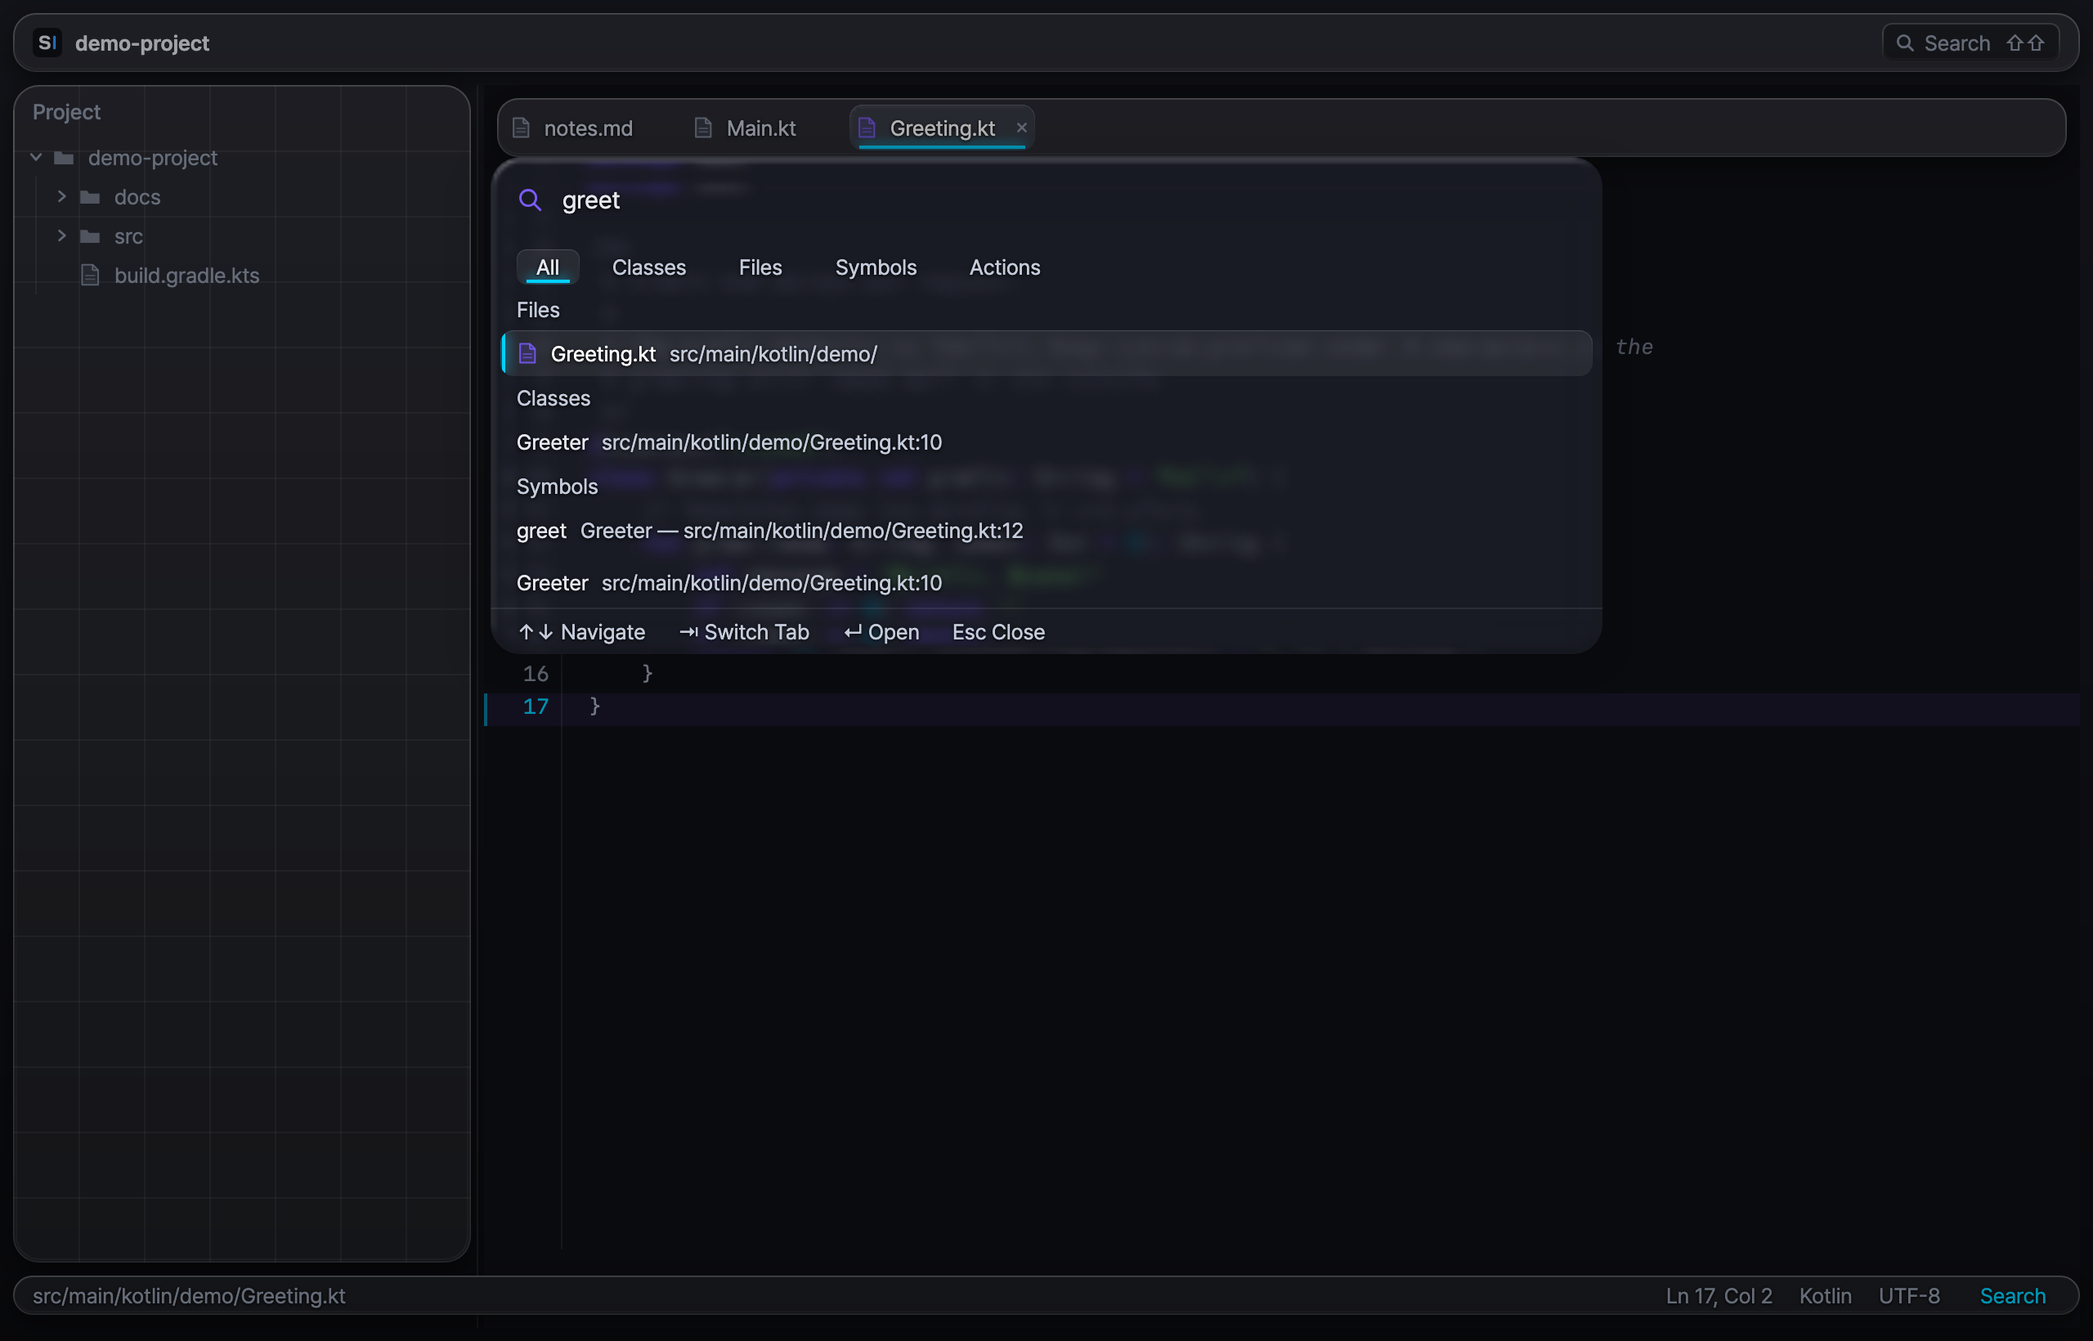
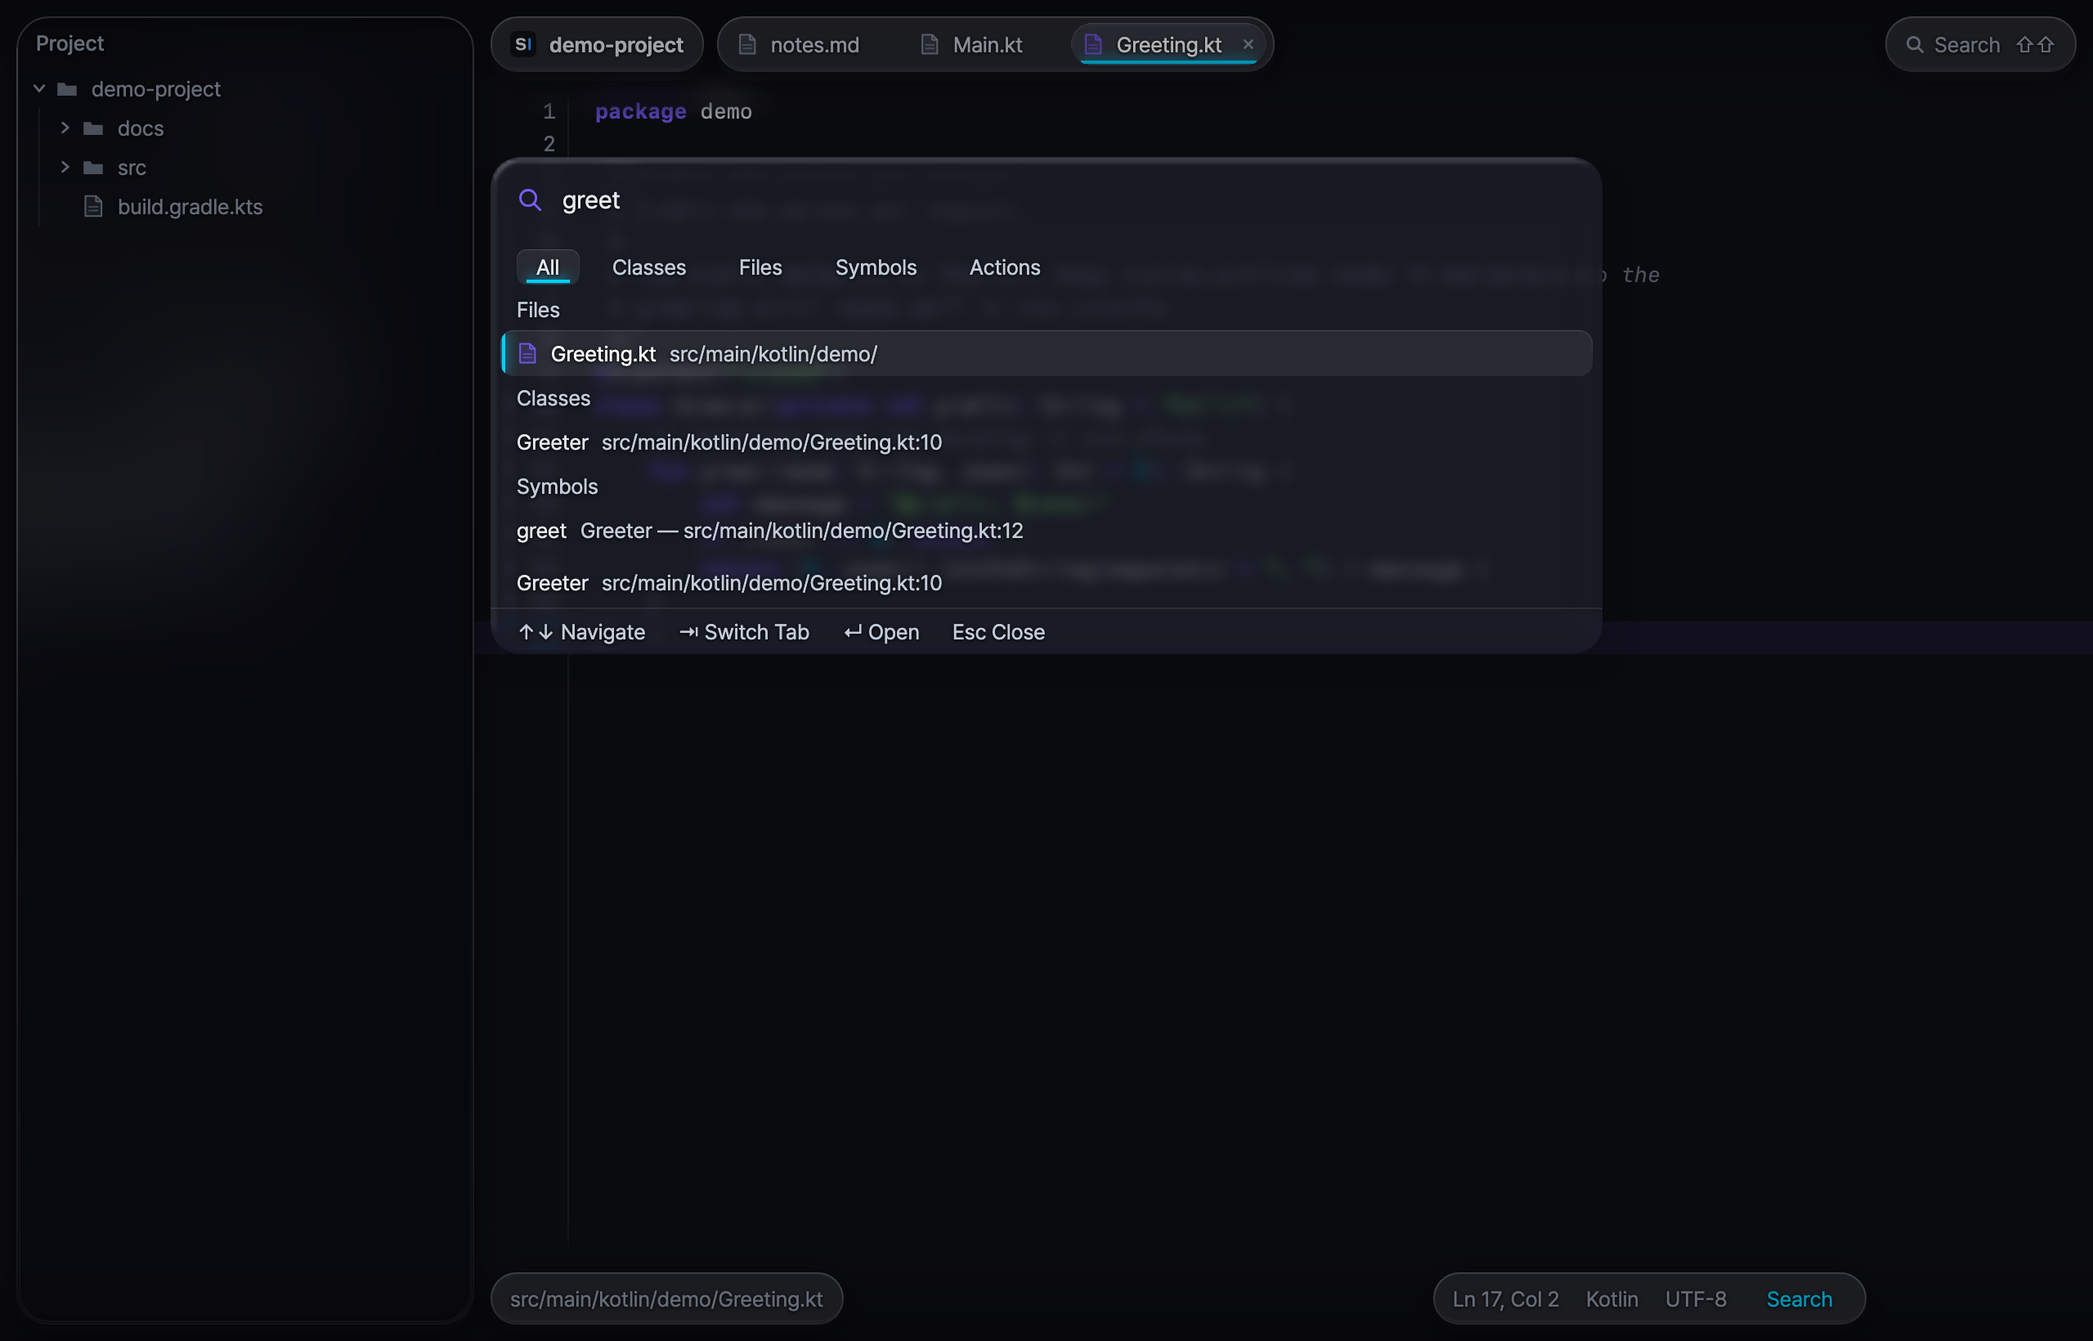
docs: #7 README 와 예시 그림 갱신
- 리퀴드 글래스 UI 절을 현재 크롬으로 다시 씀: 조작 층에만 유리, 창 가장자리까지 채우는 코드, 배경 확장이 있는 떠 있는 사이드바, 바 대신 캡슐, 스크롤 엣지 효과, 얇은 팝업, 웰컴 화면 Open Folder 캡슐, 상수 비용 스크롤 레이어
- 상태 바·탭 줄·제목 줄 슬래브를 설명하던 문장을 상태 캡슐과 상단 캡슐 기준으로 고침
- 예시 그림 6장을 UiSnapshotTest 산출물로 다시 복사

diff --git a/README.md b/README.md
@@ -46,7 +46,7 @@ brew install --cask lcalmsky/stride/stride
 - **편집** 줄 복제·삭제·이동, 줄·블록 주석 토글, 들여쓰기, 실행 취소·다시 실행을 키보드로 합니다. `⌘L` 로 `줄` 이나 `줄:열` 로 이동합니다. 선택 없이 `⌘C`·`⌘X` 를 누르면 줄 전체를 복사·잘라냅니다
 - **편집 도우미** `⌥↑`·`⌥↓` 는 커서에서 단어·문자열·괄호·줄 순으로 선택을 넓히고 좁힙니다. `⌘⇧U` 대소문자, `⌃⇧J` 줄 합치기, `⇧↩`·`⌘⌥↩` 새 줄, `⌃M` 짝 괄호, `⌘⌥[`·`⌘⌥]` 코드 블록, `⌃⇧↑`·`⌃⇧↓` 메서드 이동을 키보드로 합니다. `⌥/` 는 열린 편집기의 단어로, `⌃Space`·`⌃⌥Space` 는 선언 인덱스와 키워드로 자동 완성하고, `⇧F6` 은 파일 안에서 이름을 바꿉니다
 - **탐색** `⌘B` 나 `⌘`-클릭으로 선언으로 가고, `⌘[`·`⌘]` 또는 `⌘⌥←`·`⌘⌥→` 로 뒤로·앞으로 갑니다. `⌘F12` 파일 구조, `⌘⇧T` 테스트로 이동, `⌥F7` 사용처 찾기, `F3`·`⌘F3` 북마크를 씁니다
-- **상태 바** 상대 경로, `Ln`·`Col`, 파일 종류, `UTF-8`, 읽기 전용 표시를 보여 줍니다
+- **상태 캡슐** 하단의 경로 캡슐은 상대 경로를, 상태 캡슐 그룹은 `Ln`·`Col`, 파일 종류, `UTF-8`, 읽기 전용 표시를 보여 줍니다
 
 </td>
 </tr>
@@ -74,10 +74,10 @@ brew install --cask lcalmsky/stride/stride
 
 <table width="100%">
 <tr>
-<td width="44%" valign="top"><img src="docs/images/find.png" alt="에디터 아래 열린 찾기 바" width="480"></td>
+<td width="44%" valign="top"><img src="docs/images/find.png" alt="상단 캡슐 아래 열린 찾기 바" width="480"></td>
 <td valign="top">
 
-- **찾기 바** `⌘F` 로 탭 아래에 엽니다. `Enter`·`⌘G` 는 다음 일치로, `⇧Enter`·`⌘⇧G` 는 이전 일치로 이동하고 끝에서 반대편으로 돌아갑니다
+- **찾기 바** `⌘F` 로 상단 캡슐 줄 아래에 엽니다. `Enter`·`⌘G` 는 다음 일치로, `⇧Enter`·`⌘⇧G` 는 이전 일치로 이동하고 끝에서 반대편으로 돌아갑니다
 - **바꾸기** `⌘R` 로 바꾸기 줄을 펼칩니다. 현재 일치나 전체를 바꿉니다
 - **옵션** `Aa` 는 대소문자를 구분하고 `.*` 는 정규식을 씁니다. 정규식 바꾸기에서는 `$1` 로 그룹을 참조합니다. 잘못된 정규식은 오류를 보여 줍니다
 - **표시** 현재 일치와 나머지 일치를 서로 다른 네온 색으로 칠하고 `n / 전체` 카운터를 보여 줍니다. `Esc` 로 닫고 에디터로 포커스를 돌려줍니다
@@ -126,11 +126,15 @@ brew install --cask lcalmsky/stride/stride
 <td valign="top">
 
 - **배경** 중립 그라파이트 바탕에 위에서 아래로 은은히 어두워지는 휘도 폴오프를 깔아 창 뒤에 둡니다. 색은 강조 요소에만 씁니다
-- **떠 있는 유리 슬래브** 사이드바·탭 줄·찾기 바·상태 바·제목 줄·도구 창은 창 가장자리에서 8 dp 띄운 둥근 유리 판입니다. 판마다 스페큘러 림과 캐시한 중립 그림자가 있고, 판 사이 틈으로 창 바탕이 보입니다
-- **코드가 유리 아래로** 에디터는 탭 줄과 상태 바 아래까지 이어져 스크롤한 코드가 유리를 통해 비칩니다. 팝업은 얇은 유리로 뒤의 코드를 비추고 가장자리 렌즈에서 코드를 휘게 하며, 굵은 텍스트 그림자가 라벨을 읽히게 합니다. 셰이더를 쓸 수 없으면 블러와 헤어라인으로 대체합니다
-- **선택 신호** 선택한 트리 행과 활성 탭은 작은 렌즈가 든 캡슐로 떠오르고, 위쪽 스페큘러 림, 시안 2 dp 막대, 번지는 글로우, 흰 텍스트로 표시합니다. 포커스를 받은 패널은 테두리에 얇은 선을 그립니다
-- **큰 파일** 1,000줄 이상 문서는 상수 비용 스크롤 레이어로 그려 프레임 비용을 묶고, 그때 바는 정적 유리로 바뀝니다. 800줄 아래로 줄어야 레이어를 풉니다
-- **모션과 비용** 선택이 바뀔 때만 150 ms 동안 페이드하고 상시 애니메이션은 없습니다. 슬래브 블러는 크기별로 한 번 계산해 캐시하고, 팝업 렌즈는 저해상도 사본에서 계산합니다
+- **조작 층에만 유리** 유리는 사이드바·상하단 캡슐·찾기 바·팝업·도구 창 전환기처럼 조작에 쓰는 층에만 쓰고, 코드는 창 가장자리까지 채웁니다. 바나 판이 창을 가로지르지 않습니다
+- **떠 있는 유리 사이드바** 위·왼·아래 10 dp 띄운 둥근 유리 판입니다. 바로 옆의 실제 코드를 뒤집어 흐린 색장을 판 아래에 깔아, 사이드바가 옆 코드의 색조를 머금습니다. 판 바깥은 에디터 필드와 같은 픽셀로 남습니다
+- **바 대신 캡슐** 상단은 프로젝트 이름 캡슐·탭 캡슐 그룹·Search 캡슐로, 하단은 파일 경로 캡슐과 상태 캡슐 그룹으로 나뉩니다. 선택한 탭은 그룹 안의 유리 필이 미끄러지듯 옮겨 가고 시안 2 dp 밑줄이 선택을 즉시 알립니다. 상태 캡슐 그룹은 `Ln`·`Col`, 파일 종류, `UTF-8`, 읽기 전용 표시를 담습니다. 캡슐은 뒤의 코드를 흐려 라벨을 읽히게 하고, 캡슐 사이로는 코드가 그대로 보이고 클릭됩니다
+- **스크롤 엣지 효과** 스크롤한 코드는 상단·하단 캡슐 줄 아래에서 서서히 흐려지며 창 가장자리로 사라집니다. 바가 덮어 자르는 대신 흐림이 점진적으로 풀립니다
+- **얇은 팝업** Search Everywhere·최근 파일·컨텍스트 액션 팝업은 코드 위에 얇은 유리로 뜨고, 뒤의 코드를 비추며 가장자리에서 휘게 합니다. 굵은 텍스트 그림자가 라벨을 읽히게 하고, 셰이더를 쓸 수 없으면 블러와 헤어라인으로 대체합니다
+- **웰컴 화면** 프로젝트가 없으면 워드마크가 화면의 콘텐츠가 되고, 그 아래 `Open Folder…` 유리 캡슐과 키캡 힌트가 놓입니다
+- **선택 신호** 선택한 트리 행은 작은 렌즈가 든 캡슐로 떠오르고, 시안 2 dp 막대, 번지는 글로우, 흰 텍스트로 표시합니다. 포커스를 받은 트리 패널은 테두리에 얇은 선을 그립니다
+- **큰 파일** 1,000줄 이상 문서는 상수 비용 스크롤 레이어로 그려 프레임 비용을 묶고, 그때 캡슐은 캐시한 프로스트 채움을 씁니다. 800줄 아래로 줄어야 레이어를 풉니다
+- **모션과 비용** 선택한 탭의 필은 200 ms 동안 미끄러지고 상시 애니메이션은 없습니다. 캡슐 프로스트와 팝업 렌즈는 저해상도 사본에서 계산하고, 배경 확장과 스크롤 엣지 흐림은 결과를 캐시해 정지 프레임에서 다시 계산하지 않습니다
 - **UI 글꼴** 번들된 UI 글꼴을 쓰고, Actions 탭의 `Switch UI Font` 로 시스템 글꼴과 전환합니다. 선택은 저장되어 다음 실행에도 유지됩니다
 
 </td>
@@ -249,7 +253,7 @@ JDK 21 이 필요합니다. Gradle toolchain 이 21 을 요구합니다.
 
 모든 모듈은 `META-INF/stride-plugin.xml` 디스크립터로 확장점을 선언하고 확장을 등록합니다. 앱 디스크립터가 파일 종류, 문법 하이라이터, 주석 처리, 에디터, 트리 구조, Search Everywhere 기여자 확장점을 열고, 언어 플러그인과 앱 자신이 그 확장점에 등록합니다. 클래스·심볼 검색은 선언 인덱스를 읽는 기여자로 등록되고, 액션 검색은 앱이 직접 구성합니다. 자세한 계약은 [core](docs/api-core.md) · [lang](docs/api-lang.md) · [search](docs/api-search.md) · [app](docs/api-app.md) 에 있습니다.
 
-에디터는 스크롤 뷰포트와 크롬 인셋을 따로 둡니다. 내용은 창 가장자리까지 이어지고 바는 그 위에 겹쳐 그려지며, 인셋은 캐럿 스크롤·거터·스크롤바 여백에 반영됩니다. 1,000줄 이상 문서는 내용을 별도 스크롤 레이어에 배치하고 800줄 아래로 내려가면 레이어를 풉니다.
+에디터는 스크롤 뷰포트와 크롬 인셋을 따로 둡니다. 내용은 창 가장자리까지 이어지고 유리 캡슐과 사이드바가 그 위에 떠 있으며, 인셋은 캐럿 스크롤·거터·스크롤바 여백에 반영됩니다. 1,000줄 이상 문서는 내용을 별도 스크롤 레이어에 배치하고 800줄 아래로 내려가면 레이어를 풉니다.
 
 <br>
 

diff --git a/README.en.md b/README.en.md
@@ -46,7 +46,7 @@ The app installs to `/Applications/strIDE.app`. It is Apple Silicon (arm64) only
 - **Editing** duplicate, delete, and move lines, toggle line and block comments, indent, and undo or redo from the keyboard. `⌘L` jumps to a `line` or `line:column`. With no selection, `⌘C`·`⌘X` copy or cut the whole line
 - **Editing helpers** `⌥↑`·`⌥↓` grow and shrink the selection from the caret through word, string contents, brackets, and lines. `⌘⇧U` changes case, `⌃⇧J` joins lines, `⇧↩`·`⌘⌥↩` start a new line, `⌃M` jumps to the matching brace, `⌘⌥[`·`⌘⌥]` move to the code block edges, and `⌃⇧↑`·`⌃⇧↓` move between methods. `⌥/` completes from words in open editors, `⌃Space`·`⌃⌥Space` complete from the declaration index and keywords, and `⇧F6` renames within the file
 - **Navigation** `⌘B` or `⌘`-click goes to a declaration, and `⌘[`·`⌘]` or `⌘⌥←`·`⌘⌥→` move back and forward. `⌘F12` shows the file structure, `⌘⇧T` goes to the test, `⌥F7` finds usages, and `F3`·`⌘F3` handle bookmarks
-- **Status bar** shows the relative path, `Ln`·`Col`, the file type, `UTF-8`, and a read-only badge
+- **Status capsules** the path capsule at the bottom shows the relative path, and the status capsule group shows `Ln`·`Col`, the file type, `UTF-8`, and a read-only badge
 
 </td>
 </tr>
@@ -74,10 +74,10 @@ The app installs to `/Applications/strIDE.app`. It is Apple Silicon (arm64) only
 
 <table width="100%">
 <tr>
-<td width="44%" valign="top"><img src="docs/images/find.png" alt="The find bar open below the editor" width="480"></td>
+<td width="44%" valign="top"><img src="docs/images/find.png" alt="The find bar open below the top capsules" width="480"></td>
 <td valign="top">
 
-- **Find bar** `⌘F` opens it below the tab strip. `Enter`·`⌘G` moves to the next match and `⇧Enter`·`⌘⇧G` to the previous one, wrapping around at either end
+- **Find bar** `⌘F` opens it below the top capsule row. `Enter`·`⌘G` moves to the next match and `⇧Enter`·`⌘⇧G` to the previous one, wrapping around at either end
 - **Replace** `⌘R` expands the replace row. Replace the current match or all matches
 - **Options** `Aa` matches case and `.*` uses a regular expression. In regular-expression replacements, `$1` refers to a group. An invalid expression shows an error
 - **Display** the current match and the other matches are painted in different neon colors, with an `n / total` counter. `Esc` closes the bar and returns focus to the editor
@@ -126,11 +126,15 @@ The app installs to `/Applications/strIDE.app`. It is Apple Silicon (arm64) only
 <td valign="top">
 
 - **Background** a neutral graphite base with a soft top-to-bottom luminance falloff sits behind the window content. Color is reserved for emphasis
-- **Floating glass slabs** the sidebar, tab strip, find bar, status bar, title bar, and tool windows are rounded glass slabs inset 8 dp from the window edge. Each slab has a specular rim and a cached neutral shadow, and the window base shows through the gaps between them
-- **Code under glass** the editor runs under the tab strip and status bar, so scrolled code shows through the glass. Popups are thin glass that shows the code behind and bends it at the rim, and a strong text shadow keeps labels legible; they fall back to blur plus hairlines when the shader is unavailable
-- **Selection signal** a selected tree row and the active tab float as capsules with a small lens, a specular top rim, a 2 dp cyan bar, a bleeding glow, and white text. A focused panel draws a thin line around its border
-- **Large files** documents of 1,000 lines or more scroll through a constant-cost layer, and the bars become static glass; the layer is released once the document shrinks below 800 lines
-- **Motion and cost** a fade runs for 150 ms only when the selection changes; nothing animates continuously. Slab blur is computed once per size and cached, and the popup lens runs on a lower-resolution copy
+- **Glass only on the control layer** glass is used only for the sidebar, the top and bottom capsules, the find bar, popups, and the tool window switcher; the code fills the window edge to edge. No bar or slab crosses the window
+- **Floating glass sidebar** a rounded glass panel inset 10 dp from the top, left, and bottom edges. The real code right next to it is mirrored and blurred into a soft colour field under the panel, so the sidebar carries the tone of the code beside it. Outside the panel the pixels are the editor field
+- **Capsules instead of bars** the top row is split into a project name capsule, a tab capsule group, and a Search capsule; the bottom row into a file path capsule and a status capsule group. The selected tab is a glass pill that slides across the group, and a 2 dp cyan underline marks the selection instantly. The status group carries `Ln`·`Col`, the file type, `UTF-8`, and the read-only badge. Each capsule frosts the code under it so labels stay legible, and the code between capsules stays visible and clickable
+- **Scroll edge effect** scrolled code softens under the top and bottom capsule rows and fades out toward the window edge. Instead of a bar covering and cutting it, the blur eases out gradually
+- **Thin popups** Search Everywhere, recent files, and the context actions popup float as thin glass over the code, showing it behind and bending it at the rim. A strong text shadow keeps labels legible, and they fall back to blur plus hairlines when the shader is unavailable
+- **Welcome screen** without a project, the wordmark is the content, with an `Open Folder…` glass capsule and keycap hints below it
+- **Selection signal** a selected tree row floats as a capsule with a small lens and shows a 2 dp cyan bar, a bleeding glow, and white text. A focused tree panel draws a thin line around its border
+- **Large files** documents of 1,000 lines or more scroll through a constant-cost layer, and the capsules use a cached frost fill; the layer is released once the document shrinks below 800 lines
+- **Motion and cost** the selected tab's pill slides for 200 ms and nothing animates continuously. Capsule frost and the popup lens are computed on lower-resolution copies, and the background extension and scroll edge blur are cached so static frames do not compute them again
 - **UI font** the bundled UI font can be swapped for the system font with `Switch UI Font` in the Actions tab. The choice is saved for the next launch
 
 </td>
@@ -249,7 +253,7 @@ The app is split into six modules. `core` provides services, extension points, a
 
 Every module declares extension points and registers extensions through a `META-INF/stride-plugin.xml` descriptor. The app descriptor opens the file type, syntax highlighter, commenter, editor, tree structure, and Search Everywhere contributor extension points, and the language plugins and the app itself register into them. Class and symbol search register as contributors over the declaration index, and the app assembles action search directly. The full contracts are in [core](docs/api-core.md) · [lang](docs/api-lang.md) · [search](docs/api-search.md) · [app](docs/api-app.md).
 
-The editor keeps its scroll viewport and chrome insets separate: content runs to the window edge while the bars are drawn over it, and the insets feed caret scrolling, the gutter, and scrollbar padding. Documents of 1,000 lines or more place their content in a separate scroll layer and drop back below 800 lines.
+The editor keeps its scroll viewport and chrome insets separate: content runs to the window edge while the glass capsules and the sidebar float over it, and the insets feed caret scrolling, the gutter, and scrollbar padding. Documents of 1,000 lines or more place their content in a separate scroll layer and drop back below 800 lines.
 
 <br>
 
